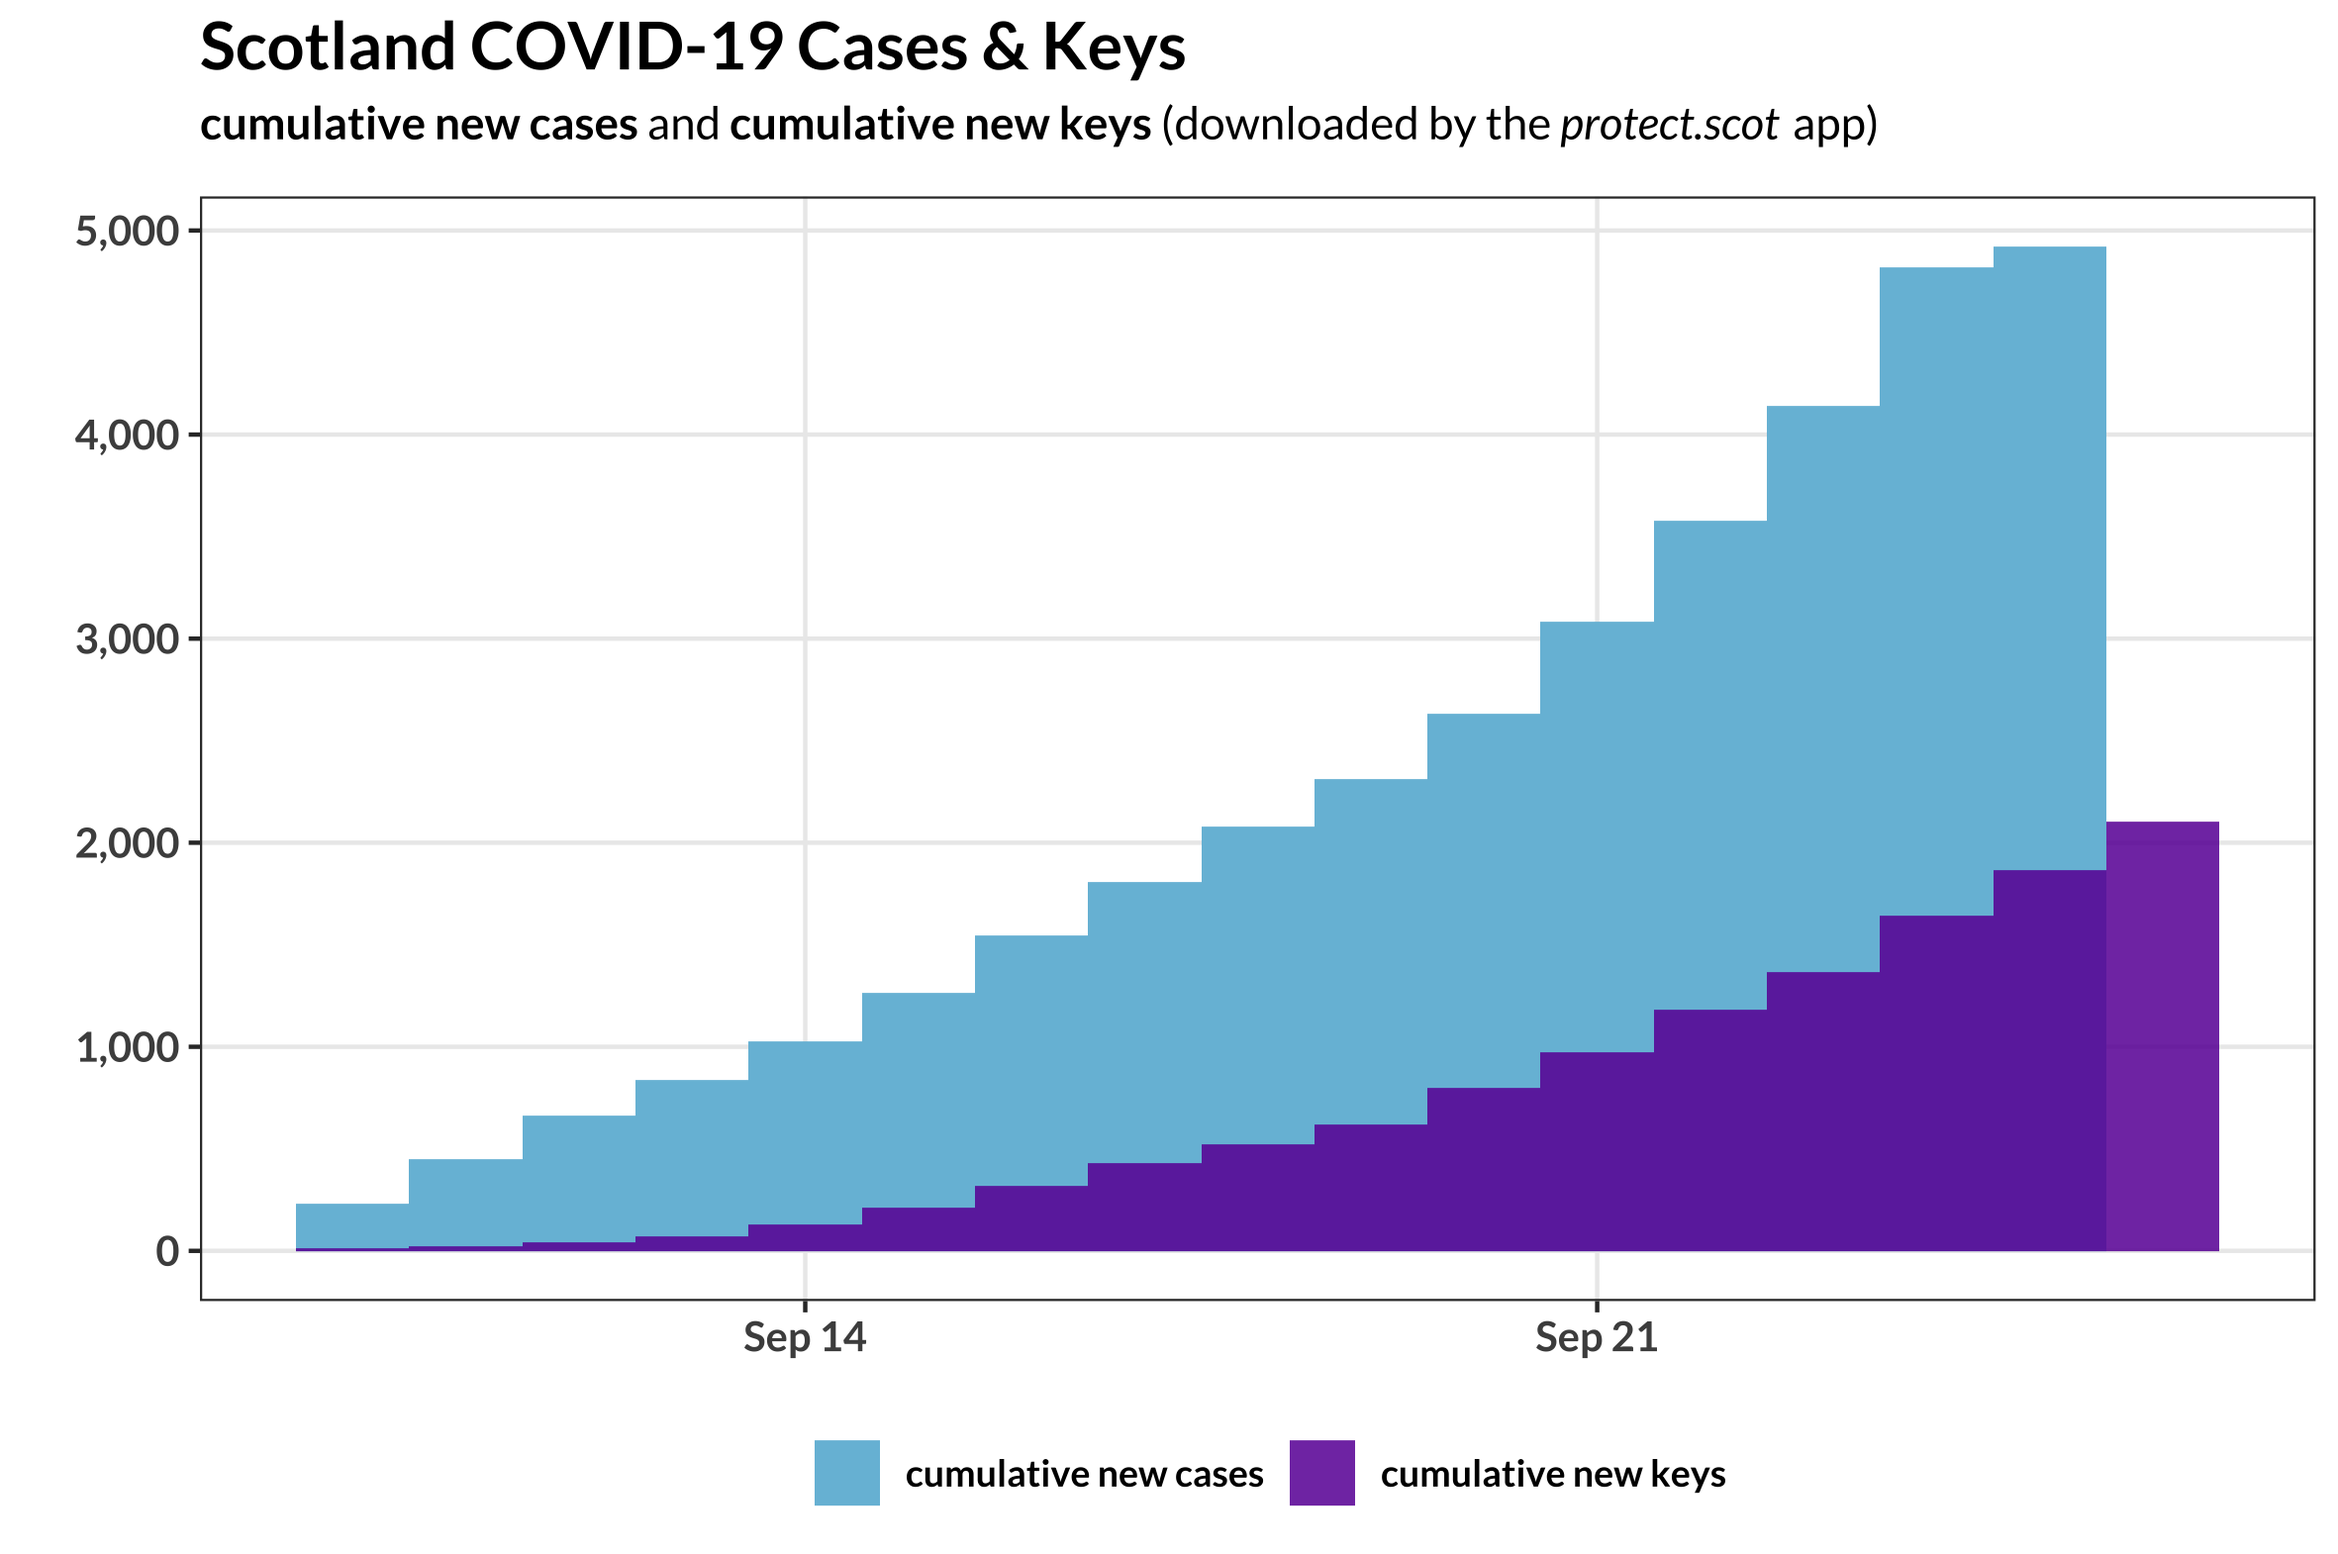
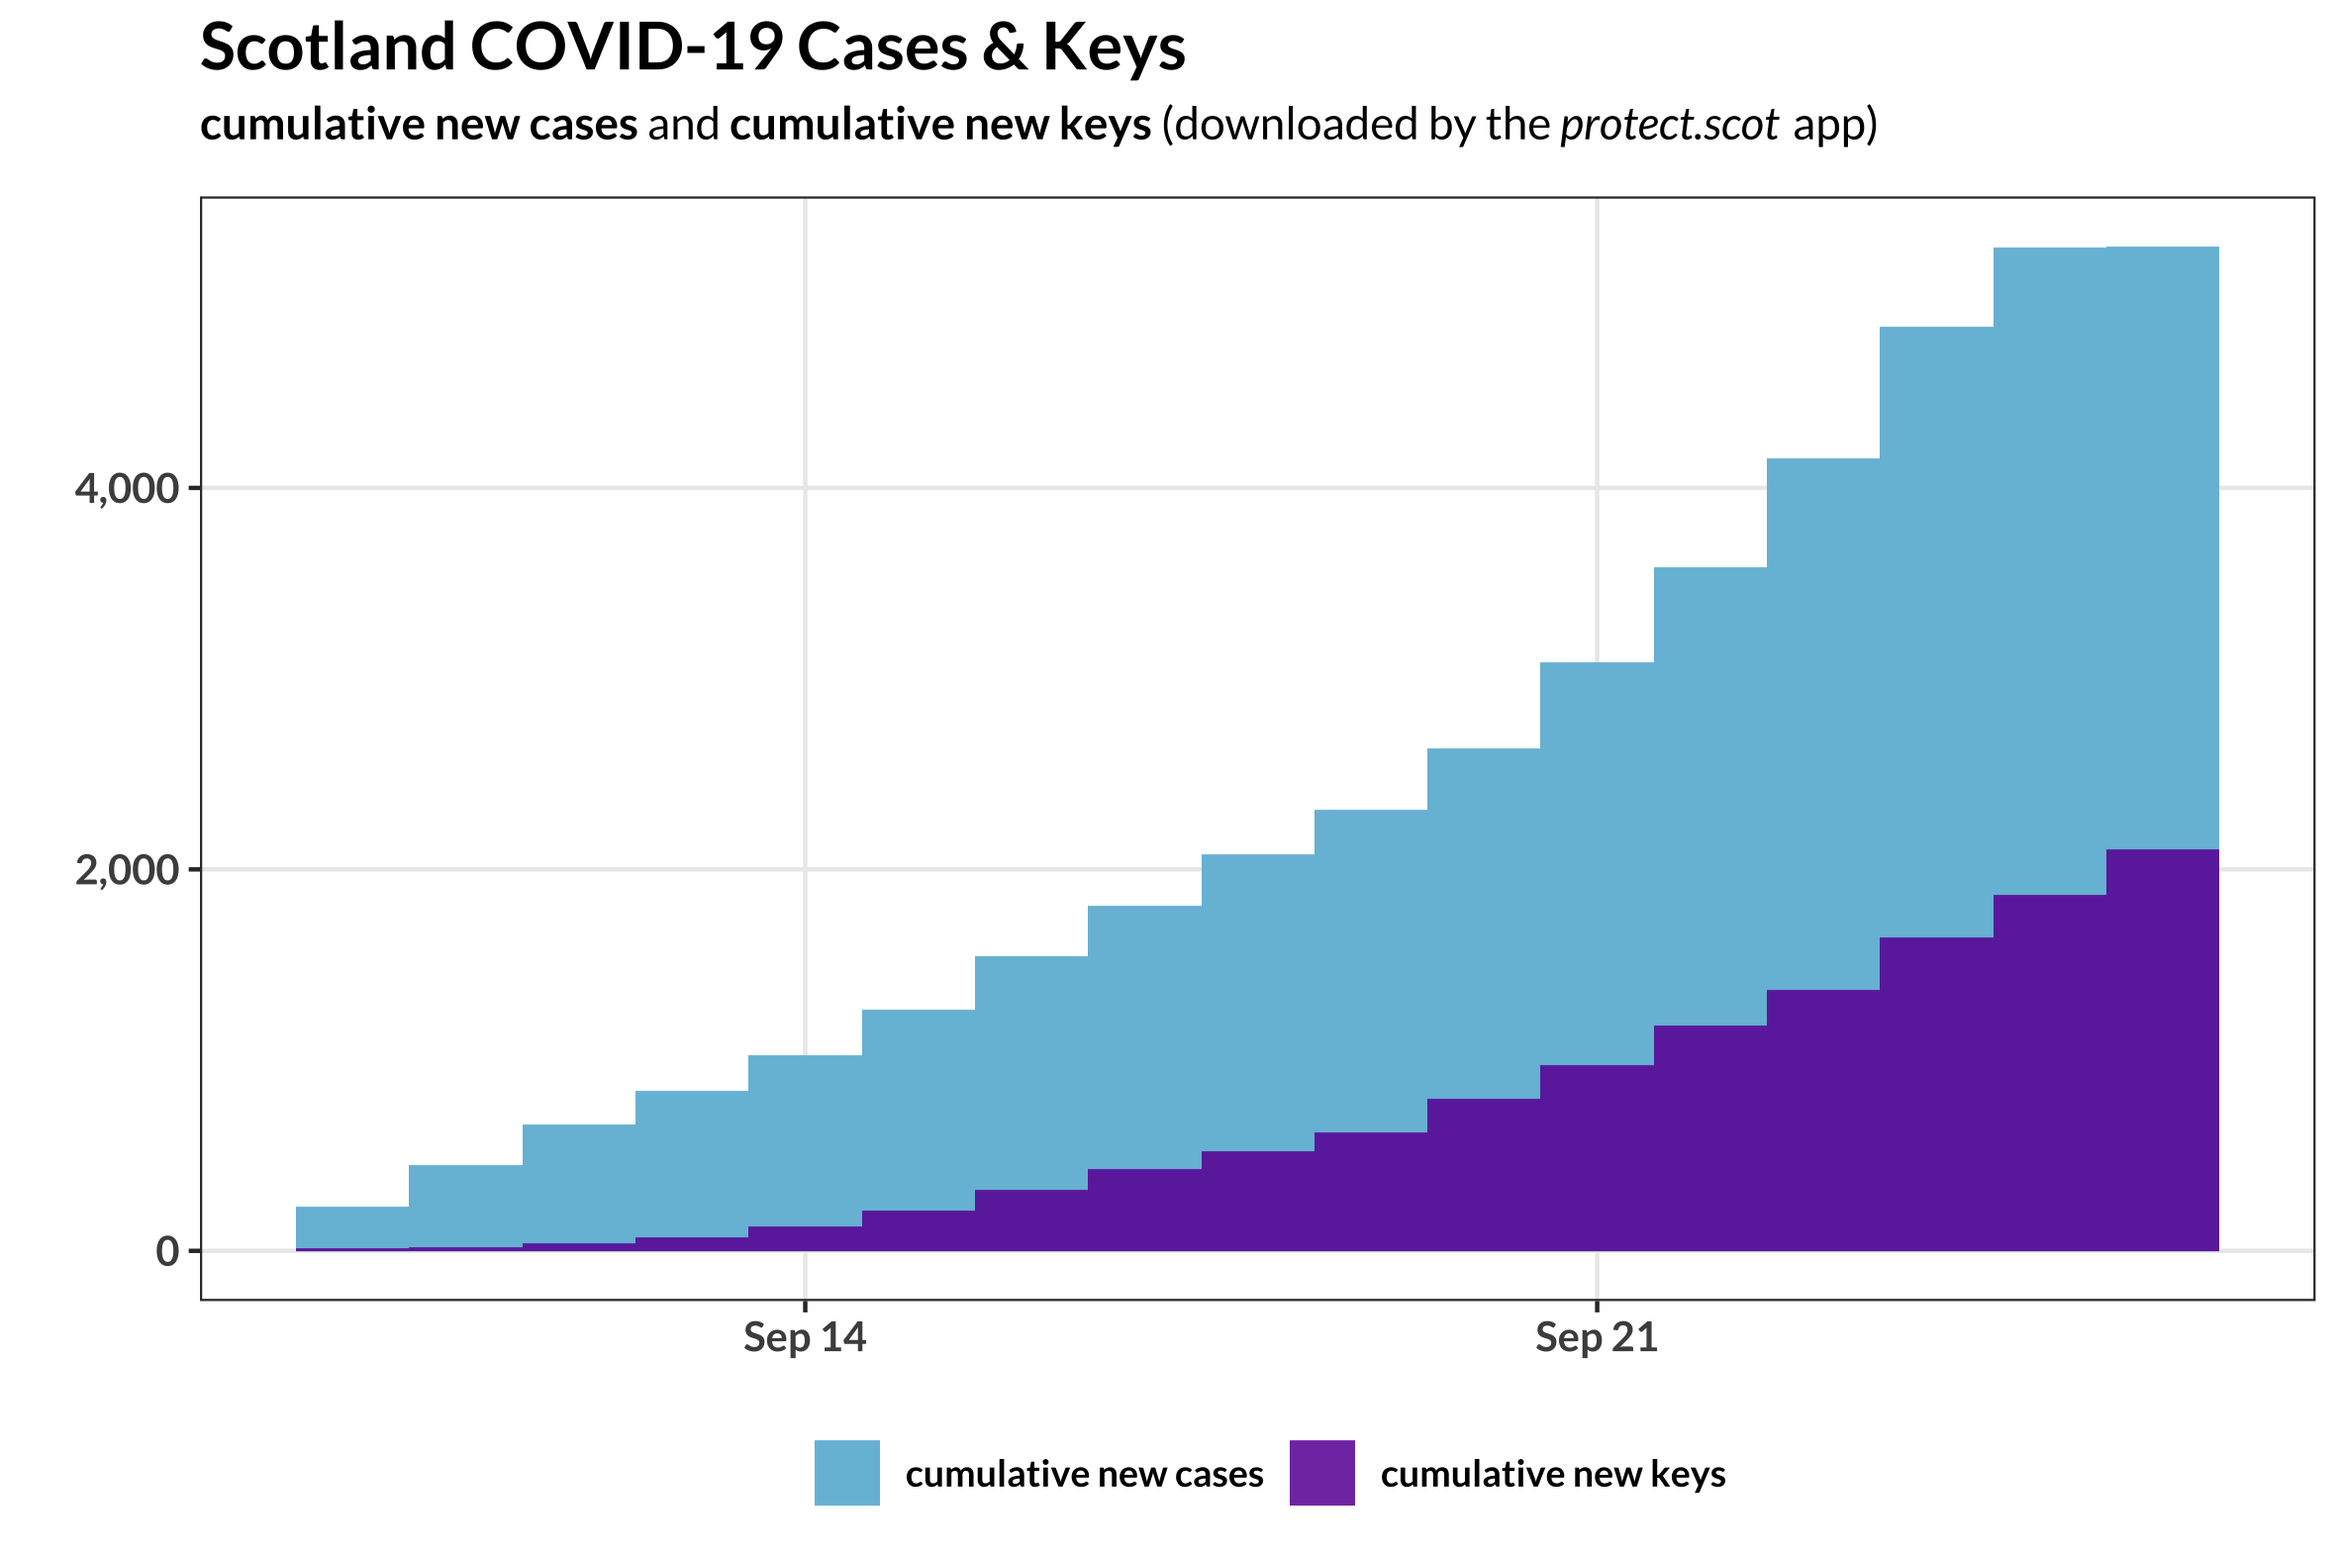
update to default to Sept17th as min date

diff --git a/README.md b/README.md
@@ -29,17 +29,12 @@ So, the number of *new keys* downloaded by the app refers to the number of cases
 * Exposure notification files generated by different phones / operating systems may have different filenames and structures. The code here is written with iPhone output files in mind (because that's what I have to hand). There is an option to use files exported from an Android device, but this has only been tested sparingly! However, the files are not complex, so the code should be easy enough to adapt.
 
 ## New Daily Cases / Keys
-Here we can see the daily number of downloaded keys compared to the daily COVID-19 cases. It's early days yet but it looks like around 40% of new cases are currently being registered via the app.
+Here we can see the daily number of downloaded keys compared to the daily COVID-19 cases. It's early days yet but it looks like the reported cases correlates well with the daily number of keys, although ideally more data and some more significant "features" would be needed to realistically asses any phase lag.
 
 ![](/pics/plot_cases_keys.png)
 
-## Cumulative Cases / Keys
-Here's the cumulative count of cases and keys downloaded (from the first day of data I have, September 10th). Note that this covers the early growth phase of the app, so it may be more instructive to look at more recent cumulative data.
-
-![](/pics/plot_cum_cases_keys.png)
-
 ## Cumulative Cases / Keys Since September 17th
-The app reached one million downloads on September 17th, and starting from then we can see that about half of the new cases have been registered. Although note that as this is only a few days worth of data (and relative lag may be of the order of a few days), this is quite speculative.
+To compare the cumulative number of new cases to the cumulative number of new keys, we'll start from September 17th. This was the date the app reached one million downloads, which seems like as good a milestone as any. We can see that about 40% of the new cases have been registered via the app since then.
 
 ![](/pics/plot_cum_cases_keys_sep17.png)
 
